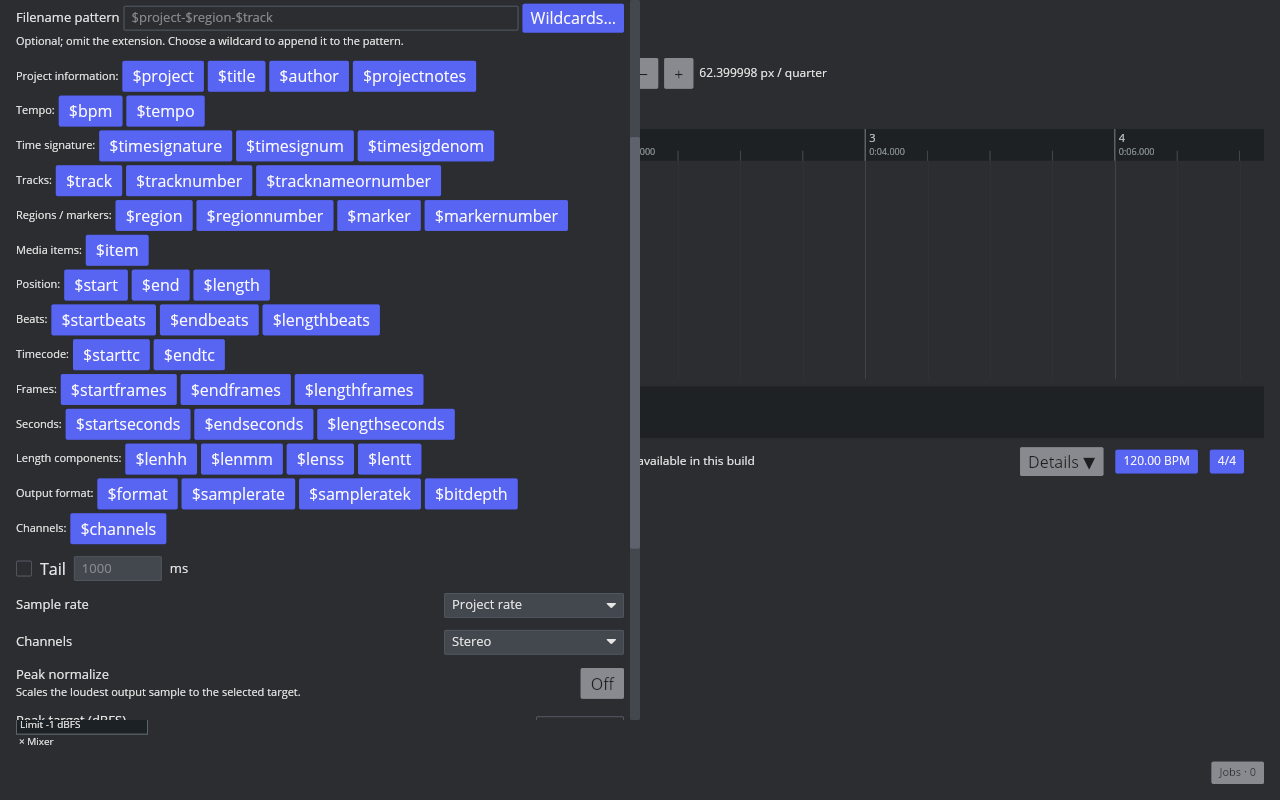
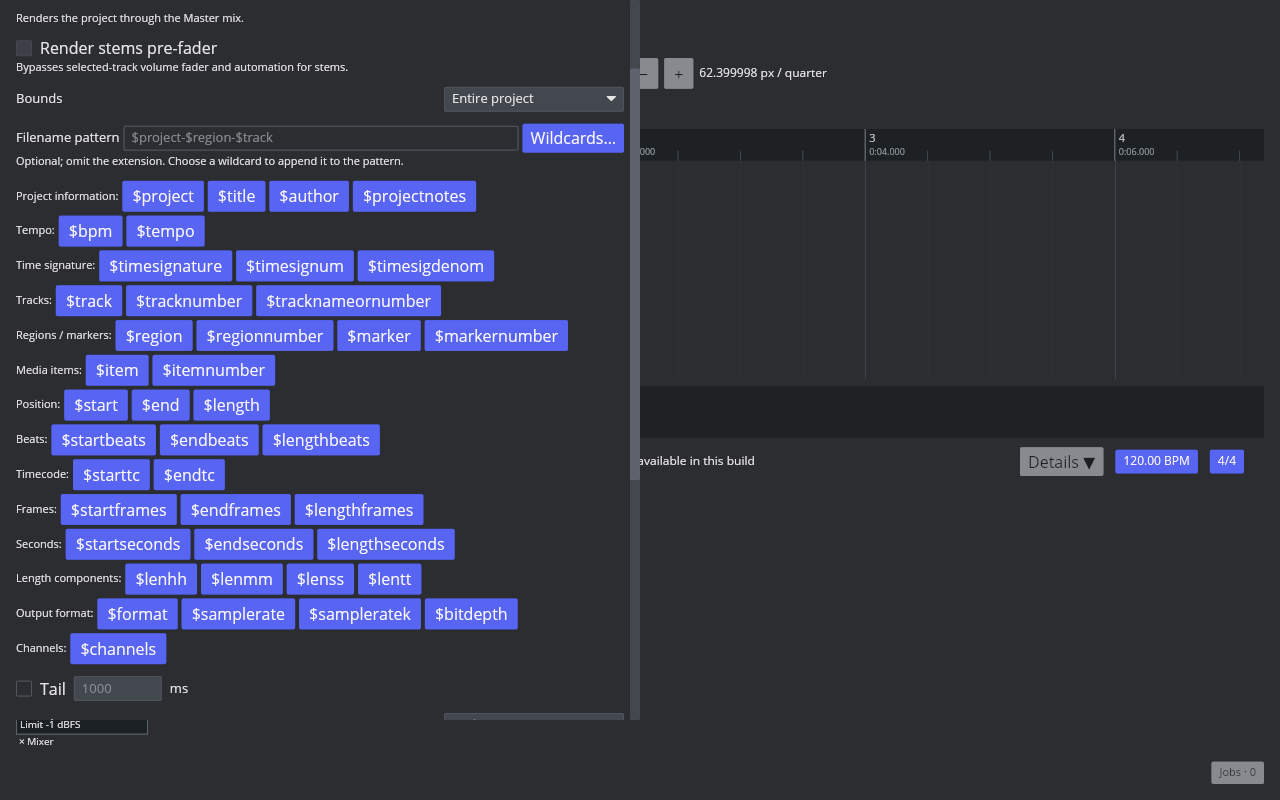
feat(render): add selected item number wildcard

Changed region(s): [[0.0, 0.0, 0.5, 0.9062], [0.4062, 0.0, 0.5, 0.0625], [0.4688, 0.5938, 0.5, 0.6875]]

diff --git a/crates/aaadaw/src/app/audio_export.rs b/crates/aaadaw/src/app/audio_export.rs
@@ -59,6 +59,7 @@ pub(crate) enum RenderFilenameWildcard {
     TrackNumber,
     TrackNameOrNumber,
     Item,
+    ItemNumber,
     Start,
     End,
     Length,
@@ -86,7 +87,7 @@ pub(crate) enum RenderFilenameWildcard {
 }
 
 impl RenderFilenameWildcard {
-    pub(crate) const ALL: [Self; 40] = [
+    pub(crate) const ALL: [Self; 41] = [
         Self::Project,
         Self::Title,
         Self::Author,
@@ -104,6 +105,7 @@ impl RenderFilenameWildcard {
         Self::Marker,
         Self::MarkerNumber,
         Self::Item,
+        Self::ItemNumber,
         Self::Start,
         Self::End,
         Self::Length,
@@ -147,6 +149,7 @@ impl RenderFilenameWildcard {
             Self::TrackNumber => "$tracknumber",
             Self::TrackNameOrNumber => "$tracknameornumber",
             Self::Item => "$item",
+            Self::ItemNumber => "$itemnumber",
             Self::Start => "$start",
             Self::End => "$end",
             Self::Length => "$length",
@@ -1074,15 +1077,19 @@ fn expand_render_filename_pattern(
                 String::new()
             }
         });
-    let item_name = match settings.source {
+    let item_index = match settings.source {
         aaadaw_app::ProjectWavRenderSource::SelectedAudioItem(item_id) => project
             .audio_items()
             .iter()
-            .position(|item| item.id() == item_id)
-            .map(|index| format!("item_{:02}", index + 1))
-            .unwrap_or_default(),
-        _ => String::new(),
+            .position(|item| item.id() == item_id),
+        _ => None,
     };
+    let item_name = item_index
+        .map(|index| format!("item_{:02}", index + 1))
+        .unwrap_or_default();
+    let item_number_text = item_index
+        .map(|index| format!("{:02}", index + 1))
+        .unwrap_or_default();
     let region = project.regions().iter().find(|region| {
         project.sample_at_tick(region.start_ticks()).ok() == Some(settings.start_sample)
             && project.sample_at_tick(region.end_ticks()).ok() == Some(settings.end_sample)
@@ -1239,6 +1246,7 @@ fn expand_render_filename_pattern(
             "marker" => result.push_str(marker.map_or("", |(_, marker)| marker.name())),
             "markernumber" => result.push_str(&marker_number_text),
             "item" => result.push_str(&item_name),
+            "itemnumber" => result.push_str(&item_number_text),
             "bpm" => result.push_str(&bpm_text),
             _ => {
                 result.push('$');
@@ -2984,6 +2992,7 @@ mod tests {
                 "$marker",
                 "$markernumber",
                 "$item",
+                "$itemnumber",
                 "$start",
                 "$end",
                 "$length",
@@ -3175,6 +3184,50 @@ mod tests {
             output[0].1,
             Path::new("/renders/Drums Kit_DRUMS KIT_drums kit_DrumsKit_Drums_Kit_Drums.wav")
         );
+    }
+
+    #[test]
+    fn render_filename_item_number_matches_the_selected_items_project_order() {
+        let mut project = Project::default();
+        project
+            .apply(DawAction::CreateTrack {
+                index: 0,
+                name: "Item number fixture".to_owned(),
+            })
+            .expect("item number fixture track should be created");
+        let track_id = project.tracks()[0].id();
+        for start_sample in [0, 48_000, 96_000] {
+            project
+                .apply(DawAction::InsertAudioItem {
+                    track_id,
+                    media_ref: "fixture.wav".to_owned(),
+                    start_sample,
+                    source_offset_samples: 0,
+                    length_samples: 48_000,
+                })
+                .expect("item number fixture should be inserted");
+        }
+        let item_id = project.audio_items()[1].id();
+        let settings = aaadaw_app::ProjectWavRenderSettings {
+            master_ceiling: aaadaw_engine::MasterOutputCeiling::default(),
+            export_options: aaadaw_app::WavExportOptions::default(),
+            output_sample_rate: 48_000,
+            output_channels: WavChannelCount::Stereo,
+            source: aaadaw_app::ProjectWavRenderSource::SelectedAudioItem(item_id),
+            start_sample: 48_000,
+            end_sample: 96_000,
+            tail_milliseconds: 0,
+            normalize_peak: false,
+            normalize_peak_target_centi_dbfs: 0,
+        };
+        let output = apply_render_filename_pattern(
+            vec![(settings, Path::new("/renders/base.wav").to_owned())],
+            "$item-$itemnumber",
+            &project,
+            Path::new("/projects/item-number.aaadaw"),
+        )
+        .expect("the selected item's identity and number should expand");
+        assert_eq!(output[0].1, Path::new("/renders/item_02-02.wav"));
     }
 
     #[test]

diff --git a/crates/aaadaw/src/app/view/render.rs b/crates/aaadaw/src/app/view/render.rs
@@ -225,39 +225,39 @@ pub(super) fn view(app: &App) -> Element<'_, Message> {
                 ),
                 wildcard_group_row(
                     "Media items:",
-                    RenderFilenameWildcard::ALL.into_iter().skip(16).take(1),
+                    RenderFilenameWildcard::ALL.into_iter().skip(16).take(2),
                 ),
                 wildcard_group_row(
                     "Position:",
-                    RenderFilenameWildcard::ALL.into_iter().skip(17).take(3),
+                    RenderFilenameWildcard::ALL.into_iter().skip(18).take(3),
                 ),
                 wildcard_group_row(
                     "Beats:",
-                    RenderFilenameWildcard::ALL.into_iter().skip(20).take(3),
+                    RenderFilenameWildcard::ALL.into_iter().skip(21).take(3),
                 ),
                 wildcard_group_row(
                     "Timecode:",
-                    RenderFilenameWildcard::ALL.into_iter().skip(23).take(2),
+                    RenderFilenameWildcard::ALL.into_iter().skip(24).take(2),
                 ),
                 wildcard_group_row(
                     "Frames:",
-                    RenderFilenameWildcard::ALL.into_iter().skip(25).take(3),
+                    RenderFilenameWildcard::ALL.into_iter().skip(26).take(3),
                 ),
                 wildcard_group_row(
                     "Seconds:",
-                    RenderFilenameWildcard::ALL.into_iter().skip(28).take(3),
+                    RenderFilenameWildcard::ALL.into_iter().skip(29).take(3),
                 ),
                 wildcard_group_row(
                     "Length components:",
-                    RenderFilenameWildcard::ALL.into_iter().skip(31).take(4),
+                    RenderFilenameWildcard::ALL.into_iter().skip(32).take(4),
                 ),
                 wildcard_group_row(
                     "Output format:",
-                    RenderFilenameWildcard::ALL.into_iter().skip(35).take(4),
+                    RenderFilenameWildcard::ALL.into_iter().skip(36).take(4),
                 ),
                 wildcard_group_row(
                     "Channels:",
-                    RenderFilenameWildcard::ALL.into_iter().skip(39).take(1),
+                    RenderFilenameWildcard::ALL.into_iter().skip(40).take(1),
                 ),
             ]
             .spacing(tokens::SPACING_XS)

diff --git a/docs/verification/reaper-parity/render-filename-patterns.md b/docs/verification/reaper-parity/render-filename-patterns.md
@@ -2,12 +2,12 @@
 
 Linux REAPER 7.82 / Default 7 places a `File name` pattern field and `Wildcards` button in the Render window. The captured selected-item case uses `$region-$item` and resolves to `bounds-ui-Region 2-item_02.wav`; the reference dialog and measured output are archived in [the native screenshot](images/render-selected-items-native.png) and [the output record](render-selected-items-native.tsv). The native Region Render Matrix fixture uses `$region-$track` and emits `Intro-Master.wav`, `Intro-Drums.wav`, `Intro-Guitar.wav`, and `Verse-Bass.wav`.
 
-AAADAW now provides an optional filename-pattern field in its Render window and a grouped `Wildcards…` picker immediately below it. Its 40 implemented tokens cover `$project`, `$title`, `$author`, `$projectnotes`, `$bpm`, `$tempo`, `$timesignature`, `$timesignum`, `$timesigdenom`, `$track`, `$tracknumber`, `$tracknameornumber`, `$region`, `$regionnumber`, `$marker`, `$markernumber`, `$item`, the 18 Position/Length tokens `$start`, `$end`, `$length`, `$startbeats`, `$endbeats`, `$lengthbeats`, `$starttc`, `$endtc`, `$startframes`, `$endframes`, `$lengthframes`, `$startseconds`, `$endseconds`, `$lengthseconds`, `$lenhh`, `$lenmm`, `$lenss`, and `$lentt`, plus `$format`, `$samplerate`, `$sampleratek`, `$bitdepth`, and `$channels`. Project metadata values come from the existing Project Notes model. Selecting a token appends it to the end of the pattern and closes the picker. A chosen output path supplies the directory and extension; a blank pattern retains the existing generated names. The resolver sanitizes characters unsafe in file names and rejects patterns that resolve multiple jobs to the same name before queueing. The Render job still publishes through the existing atomic batch writer.
+AAADAW now provides an optional filename-pattern field in its Render window and a grouped `Wildcards…` picker immediately below it. Its 41 implemented tokens cover `$project`, `$title`, `$author`, `$projectnotes`, `$bpm`, `$tempo`, `$timesignature`, `$timesignum`, `$timesigdenom`, `$track`, `$tracknumber`, `$tracknameornumber`, `$region`, `$regionnumber`, `$marker`, `$markernumber`, `$item`, `$itemnumber`, the 18 Position/Length tokens `$start`, `$end`, `$length`, `$startbeats`, `$endbeats`, `$lengthbeats`, `$starttc`, `$endtc`, `$startframes`, `$endframes`, `$lengthframes`, `$startseconds`, `$endseconds`, `$lengthseconds`, `$lenhh`, `$lenmm`, `$lenss`, and `$lentt`, plus `$format`, `$samplerate`, `$sampleratek`, `$bitdepth`, and `$channels`. Project metadata values come from the existing Project Notes model. Selecting a token appends it to the end of the pattern and closes the picker. A chosen output path supplies the directory and extension; a blank pattern retains the existing generated names. The resolver sanitizes characters unsafe in file names and rejects patterns that resolve multiple jobs to the same name before queueing. The Render job still publishes through the existing atomic batch writer.
 
 The [AAADAW filename-field capture](fixtures/render-filename-pattern-aaadaw.png), [expanded picker capture](fixtures/render-filename-pattern-wildcards-aaadaw.png), [scrolled picker capture](fixtures/render-filename-pattern-wildcards-scrolled-aaadaw.png), and [wildcard insertion capture](fixtures/render-filename-pattern-wildcard-insert-aaadaw.png) were taken from the rebuilt desktop binary. The reproducible [capture script](../../../scripts/reaper_parity/capture-render-filename-pattern-aaadaw.sh) drives the visible Render command with Ctrl+Alt+R; set `AAADAW_OPEN_WILDCARDS=1` to capture the expanded picker, or `AAADAW_INSERT_WILDCARD=sampleratek` to scroll to the lower groups, click the token, and capture the resulting field. The current desktop capture confirms that `$sampleratek` inserts and closes the picker. Native UI probes accept `AAADAW_REAPER_WILDCARD_PATTERN` to replace their default pattern. The selected-item probe also accepts project title, author, notes, track name, item start, and item length overrides. Native captures verify `$tracknumber-$tracknameornumber-$regionnumber-$tempo-$timesignature-$timesignum-$timesigdenom` as `01-Render fixture-02-120-4-4-4-4.wav`, `$markernumber` as `01.wav`, `$title-$author-$projectnotes` as `Wildcard Session-Render Author-Mix notes.wav`, and an empty track name with `$tracknameornumber` as `Track 01.wav`. At 30 fps and 4/4, a selected item from 2.125 to 3.359 seconds resolves `$start-$end-$length` to `0-02.125-0-03.359-0-01.234`, `$startbeats-$endbeats-$lengthbeats` to `2.1.25-2.3.72-0.2.47`, `$starttc-$endtc` to `00.00.02.03-00.00.03.10`, `$startseconds-$endseconds-$lengthseconds-$startframes-$endframes-$lengthframes` to `2.125-3.359-1.234-63-100-37`, and the length components to `0-0-1-234`. The [native context capture](fixtures/render-wildcards-context-native.png), [marker capture](fixtures/render-wildcards-marker-native.png), [metadata capture](fixtures/render-wildcards-metadata-native.png), [unnamed-track capture](fixtures/render-wildcards-unnamed-track-native.png), and the [clock](fixtures/render-wildcards-clock-native.png), [beats](fixtures/render-wildcards-beats-native.png), [timecode](fixtures/render-wildcards-timecode-native.png), [frames](fixtures/render-wildcards-frames-native.png), and [length components](fixtures/render-wildcards-length-native.png) captures preserve those cases. Screenshot hashes, native inputs, implementation tokens, and regression results are in the [fixture manifest](fixtures/render-filename-pattern-aaadaw.tsv).
 
 Wildcard text expansion now follows the native help for capitalization (`$Track`, `$TRACK`, `$tRACK`), `<X>` removal, `<abcdeX>` replacement, and `[<N]` prefix truncation. When a known wildcard expands to an empty string, one adjacent space, hyphen, underscore, or dot is omitted, following the native help rule. Unit regressions cover those transformations; native help captures are linked in the [catalog](render-wildcard-catalog.md).
 
-The regression resolves the native `$region-$track` matrix pattern to the same four native target names, renders those jobs through AAADAW's offline audio renderer, and compares every PCM24 sample to the matching REAPER output. A second test resolves `$region-$item` to the observed `Intro-item_01.wav` form. The context-expansion regression checks Project Notes title/author/text, all Position/Length values, and track, region, tempo, and time-signature values; an unnamed track resolves `$tracknameornumber` to the native `Track 02` form. The native unnamed-track render preview shows `Track 01.wav`. Separate cases cover safe-name conversion, blank-pattern fallback, unknown literal tokens, and duplicate-name rejection. The queue test sets `$project-$track` through the Render message and checks that queued stem paths use the expanded project and track names; it also verifies duplicate names leave the queue unchanged. The picker regression covers all 40 visible tokens, appending the selected token, and closing the menu. The output-context regression checks native values for WAV format, 44.1/22.05 kHz formatting, 16/24/32/64-bit PCM/float and 4/2-bit compressed WAV values, and Mono/Stereo channel counts. See the manifest for current build, screenshot hashes, and validation counts.
+The regression resolves the native `$region-$track` matrix pattern to the same four native target names, renders those jobs through AAADAW's offline audio renderer, and compares every PCM24 sample to the matching REAPER output. A second test resolves `$region-$item` to the observed `Intro-item_01.wav` form. The context-expansion regression checks Project Notes title/author/text, all Position/Length values, and track, region, tempo, and time-signature values; `$itemnumber` follows the selected item’s project order and is regression-tested with the captured `$item` `item_02` identity; an unnamed track resolves `$tracknameornumber` to the native `Track 02` form. The native unnamed-track render preview shows `Track 01.wav`. Separate cases cover safe-name conversion, blank-pattern fallback, unknown literal tokens, and duplicate-name rejection. The queue test sets `$project-$track` through the Render message and checks that queued stem paths use the expanded project and track names; it also verifies duplicate names leave the queue unchanged. The picker regression covers all 41 visible tokens, appending the selected token, and closing the menu. The output-context regression checks native values for WAV format, 44.1/22.05 kHz formatting, 16/24/32/64-bit PCM/float and 4/2-bit compressed WAV values, and Mono/Stereo channel counts. See the manifest for current build, screenshot hashes, and validation counts.
 
 The [native wildcard catalog](render-wildcard-catalog.md) records the 97 entries visible in REAPER 7.82 menus and the native Wildcard help rules. This does not complete REAPER Wildcards parity: AAADAW exposes 40 tokens in a flat scrollable grouped picker and appends at the pattern end; insertion at the caret or over a selection, `$projectnotes(name)` and named-note parsing, project directory variants, region/marker/item note and name expressions, folders/parent/FX, recording names, date/time/unique IDs, computer/user values, REAPER's full ordering and escaping rules, pattern presets and cross-launch persistence, native collision prompts, non-WAV formats, per-channel `$chid`, and remaining source/range combinations are open. Position/Length formatting is verified with the default 4/4 meter and 30 fps, while project time offset, meter changes across the render range, other frame rates, drop-frame modes, and Tail interactions still need native comparisons. The native context captures verify track number/name, region number, tempo, time signature components, marker number, project title/author/notes, and the sampled time/beat/frame output forms. `$marker` text/name expansion and many source-dependent values still need native comparisons. `RENDER-WILDCARDS-001`, `RENDER-SOURCE-001`, and `UI-028` remain `in_progress`.

diff --git a/docs/verification/reaper-parity/render-source.md b/docs/verification/reaper-parity/render-source.md
@@ -20,7 +20,7 @@ AAADAW stores a Master-mix boolean and ordered TrackId list per project region i
 
 The Render Source menu now offers `Region Render Matrix` with All/Selected Project Regions bounds. The existing atomic batch-render queue builds one output for each assigned Master row and one for each assigned track row, and stores per-region ranges in each job. The native Linux REAPER 7.82 render action produced four outputs for this fixture: `Intro-Master.wav`, `Intro-Drums.wav`, `Intro-Guitar.wav`, and `Verse-Bass.wav`; unassigned target/region pairs produced no files. All four files were 48 kHz stereo PCM24 with 96,000 frames. The [source generator](../../../scripts/reaper_parity/generate-region-render-matrix-sources.py), [ReaScript render probe](../../../scripts/reaper_parity/probe-region-render-matrix-render.lua), [native output table](fixtures/region-render-matrix-render-native.tsv), and [PCM fixtures](fixtures/region-render-matrix-render/) preserve the setup, metadata, hashes, and payloads. An AAADAW regression renders the same four target jobs and compares every PCM payload byte-for-byte with the corresponding native fixture; output format, frame count, and sample values also match exactly.
 
-The Render window now has an optional filename-pattern field and a grouped `Wildcards…` picker for 40 implemented tokens: `$project`, `$title`, `$author`, `$projectnotes`, `$bpm`, `$tempo`, `$timesignature`, `$timesignum`, `$timesigdenom`, `$track`, `$tracknumber`, `$tracknameornumber`, `$region`, `$regionnumber`, `$marker`, `$markernumber`, `$item`, the 18 Position/Length tokens, and `$format`, `$samplerate`, `$sampleratek`, `$bitdepth`, and `$channels`. The existing Project Notes title, author, and text fields drive the three new metadata variables. A native selected-item Render probe confirms `$title-$author-$projectnotes` resolves to `Wildcard Session-Render Author-Mix notes.wav`; `$tracknumber-$tracknameornumber-$regionnumber-$tempo-$timesignature-$timesignum-$timesigdenom` resolves to `01-Render fixture-02-120-4-4-4-4.wav`, and the marker probe confirms `$markernumber` resolves to `01.wav`. REAPER's changelog specifies that an unnamed track resolves `$tracknameornumber` to `Track NN`; a fresh native dialog shows an empty track name resolving to `Track 01.wav`, which AAADAW now matches. For a selected item from 2.125 to 3.359 seconds, native Render previews verify clock values `0-02.125`, beat values `2.1.25-2.3.72-0.2.47`, timecode `00.00.02.03-00.00.03.10`, seconds and 30 fps counts `2.125-3.359-1.234-63-100-37`, and length components `0-0-1-234`. The native context, metadata, marker, unnamed-track, Position/Length, Output Format, and Channels screenshots are in the filename wildcard fixture set. The native wildcard menu and help catalog is recorded in [the catalog verification](render-wildcard-catalog.md). For the tested `$region-$track` pattern, AAADAW emits the native names `Intro-Master.wav`, `Intro-Drums.wav`, `Intro-Guitar.wav`, and `Verse-Bass.wav`; its offline renderer still matches all four native PCM payloads byte-for-byte. The native `$region-$item` case resolves to `bounds-ui-Region 2-item_02.wav`, and AAADAW resolves the same token pair to the observed item-name form. Blank patterns keep the existing generated output names. Wildcard capitalization, character replacement/removal, prefix truncation, and empty-value separator removal follow the native help and have regression coverage; caret/selection insertion, `[N]` render-order counters, directory creation, lane filters, named project-note parsing, remaining tokens, preset persistence, and more source/range combinations remain open; see [filename wildcard verification](render-filename-patterns.md). The simple fixture confirms the tested track signal and Master sum, but not pre/post-fader settings, automation, folders/sends, or FX routing. Those gaps keep `RENDER-SOURCE-001` and `PROJECT-REGIONS-001` `in_progress`.
+The Render window now has an optional filename-pattern field and a grouped `Wildcards…` picker for 41 implemented tokens: `$project`, `$title`, `$author`, `$projectnotes`, `$bpm`, `$tempo`, `$timesignature`, `$timesignum`, `$timesigdenom`, `$track`, `$tracknumber`, `$tracknameornumber`, `$region`, `$regionnumber`, `$marker`, `$markernumber`, `$item`, `$itemnumber`, the 18 Position/Length tokens, and `$format`, `$samplerate`, `$sampleratek`, `$bitdepth`, and `$channels`. The existing Project Notes title, author, and text fields drive the three new metadata variables. A native selected-item Render probe confirms `$title-$author-$projectnotes` resolves to `Wildcard Session-Render Author-Mix notes.wav`; `$tracknumber-$tracknameornumber-$regionnumber-$tempo-$timesignature-$timesignum-$timesigdenom` resolves to `01-Render fixture-02-120-4-4-4-4.wav`, and the marker probe confirms `$markernumber` resolves to `01.wav`. REAPER's changelog specifies that an unnamed track resolves `$tracknameornumber` to `Track NN`; a fresh native dialog shows an empty track name resolving to `Track 01.wav`, which AAADAW now matches. For a selected item from 2.125 to 3.359 seconds, native Render previews verify clock values `0-02.125`, beat values `2.1.25-2.3.72-0.2.47`, timecode `00.00.02.03-00.00.03.10`, seconds and 30 fps counts `2.125-3.359-1.234-63-100-37`, and length components `0-0-1-234`. The native context, metadata, marker, unnamed-track, Position/Length, Output Format, and Channels screenshots are in the filename wildcard fixture set. The native wildcard menu and help catalog is recorded in [the catalog verification](render-wildcard-catalog.md). For the tested `$region-$track` pattern, AAADAW emits the native names `Intro-Master.wav`, `Intro-Drums.wav`, `Intro-Guitar.wav`, and `Verse-Bass.wav`; its offline renderer still matches all four native PCM payloads byte-for-byte. The native `$region-$item` case resolves to `bounds-ui-Region 2-item_02.wav`; AAADAW resolves `$item` as `item_02` for the second project item and exposes the matching `$itemnumber` value `02`. Blank patterns keep the existing generated output names. Wildcard capitalization, character replacement/removal, prefix truncation, and empty-value separator removal follow the native help and have regression coverage; caret/selection insertion, `[N]` render-order counters, directory creation, lane filters, named project-note parsing, remaining tokens, preset persistence, and more source/range combinations remain open; see [filename wildcard verification](render-filename-patterns.md). The simple fixture confirms the tested track signal and Master sum, but not pre/post-fader settings, automation, folders/sends, or FX routing. Those gaps keep `RENDER-SOURCE-001` and `PROJECT-REGIONS-001` `in_progress`.
 
 ### Selected media items
 

diff --git a/docs/reaper-parity/progress.md b/docs/reaper-parity/progress.md
@@ -26,7 +26,7 @@
 | P7 | 未开始 | MIDI |
 | P8 | 未开始 | 自动化 |
 | P9 | 未开始 | 插件 |
-| P10 | 进行中 | 工程帧率/时间码、Notes 与 General 起始速度/拍号/采样率/有符号 Start measure/BPM basis/标尺间隔锚点/Project start time 显示偏移/已实现字段的默认工程设置保存；媒体默认已有 64pt playback/192pt render sinc，Render 支持 Entire project/Time selection/Custom time range/All project regions/All project markers、默认关闭且整数毫秒输入的 Tail、Project/常用预设输出采样率转换、Mono/Stereo WAV、PCM8/16/24/32、Float32/64、4-bit IMA ADPCM、2-bit cADPCM 与 8-bit u-Law、可调 sample-peak、Selected tracks (stems)/pre-fader/via master、Master mix and stems，以及 Region Render Matrix 的 All/Selected Regions 批量任务构造、一组 4 文件原厂 PCM24 对照和 40 个常用 Wildcard token（其中 18 个 Position/Length 项及 5 个输出格式/通道值与 REAPER 7.82 实窗输出比对；原厂大小写、字符替换/删除、[<N] 截取和空值分隔符规则已接入）；$region-$track 原厂文件名与完整 PCM 已一致，完整 Wildcards chooser/规则/跨启动保存及其他路由行为仍待验收；cADPCM 编码尚未逐字节一致、Selected regions/markers、其他 Bounds、多声道、其他归一化/限制后处理和完整原厂对照仍缺 |
+| P10 | 进行中 | 工程帧率/时间码、Notes 与 General 起始速度/拍号/采样率/有符号 Start measure/BPM basis/标尺间隔锚点/Project start time 显示偏移/已实现字段的默认工程设置保存；媒体默认已有 64pt playback/192pt render sinc，Render 支持 Entire project/Time selection/Custom time range/All project regions/All project markers、默认关闭且整数毫秒输入的 Tail、Project/常用预设输出采样率转换、Mono/Stereo WAV、PCM8/16/24/32、Float32/64、4-bit IMA ADPCM、2-bit cADPCM 与 8-bit u-Law、可调 sample-peak、Selected tracks (stems)/pre-fader/via master、Master mix and stems，以及 Region Render Matrix 的 All/Selected Regions 批量任务构造、一组 4 文件原厂 PCM24 对照和 41 个常用 Wildcard token（其中 18 个 Position/Length 项及 5 个输出格式/通道值与 REAPER 7.82 实窗输出比对；原厂大小写、字符替换/删除、[<N] 截取和空值分隔符规则已接入）；$region-$track 原厂文件名与完整 PCM 已一致，完整 Wildcards chooser/规则/跨启动保存及其他路由行为仍待验收；cADPCM 编码尚未逐字节一致、Selected regions/markers、其他 Bounds、多声道、其他归一化/限制后处理和完整原厂对照仍缺 |
 | P11 | 未开始 | 其他原厂界面 |
 | P12 | 未开始 | 全量验收 |
 
@@ -1589,3 +1589,8 @@ App nextest 664/664、strict all-target App Clippy `-D warnings`、stripped-debu
 ## 2026-10-16 Native wildcard text rules
 
 按 REAPER 7.82 Wildcard help 实现大小写模式（首字母大写、整体大写、整体小写）、`<X>` 删除字符、`<abcdeX>` 字符映射替换、`[<N]` 前缀截取，以及空值旁一个空格/连字符/下划线/点号的省略。新增两项 resolver 回归，覆盖这些规则；App nextest 667/667、strict all-target App Clippy `-D warnings` 通过。重建并运行 Build ID `a480f6100388ac6490b4f413814d75229198eb5f` 的桌面二进制，复拍 Render 字段、40 项 picker、滚动 picker 与 `$sampleratek` 实际点击插入界面；帮助页及菜单证据见[原厂 Wildcard catalog](../verification/reaper-parity/render-wildcard-catalog.md)。`[N]` 渲染序号、`/` 目录创建、`{lane}`、命名值表达式与其余原厂 token 仍未实现，`RENDER-WILDCARDS-001` 保持 `in_progress`。
+
+
+## 2026-10-16 Media item number wildcard
+
+补齐原厂 Media Items 菜单中的 `$itemnumber`。其值来自当前选中音频 Item 在工程 Item 序列中的一基序号，并按两位数输出；与已有 `$item` 共享同一身份索引。回归以第二个工程 Item 验证 `$item-$itemnumber` 为 `item_02-02`，与已存档的原厂第二个选中 Item `$item` 预览 `item_02` 一致。Picker 增至 41 项，Media items 组同列显示 `$item` / `$itemnumber`；X11 实点第二个按钮后正确插入 `$itemnumber` 并关闭 picker。App nextest 668/668 与 strict all-target App Clippy `-D warnings` 通过；Build ID `8d0c0fdde9a40e520786848ba56c265ab2d1a705` 的 Render、完整 picker、滚动 picker 和实点插入截图已登记。直接 `$itemnumber` 原厂输出预览及其他原厂 Media Items 项仍开放。

diff --git a/docs/verification/reaper-parity/render-wildcard-catalog.md b/docs/verification/reaper-parity/render-wildcard-catalog.md
@@ -33,6 +33,6 @@ The captured Output Format previews confirm `wav-44100-44.1-24-2` for 44.1 kHz /
 
 ## AAADAW status
 
-AAADAW implements 40 tokens: `$project`, `$title`, `$author`, `$projectnotes`, `$bpm`, `$tempo`, `$timesignature`, `$timesignum`, `$timesigdenom`, `$track`, `$tracknumber`, `$tracknameornumber`, `$region`, `$regionnumber`, `$marker`, `$markernumber`, `$item`, the 18 Position/Length entries above, and `$format`, `$samplerate`, `$sampleratek`, `$bitdepth`, and `$channels`. `$bpm` and `$tracknameornumber` are accepted compatibility forms outside the captured native menu labels. The native menu groups items hierarchically; AAADAW currently presents its flat grouped picker in a scrollable panel. Its lower rows and a real `$sampleratek` insertion are shown in the [scrolled AAADAW picker](fixtures/render-filename-pattern-wildcards-scrolled-aaadaw.png) and [insertion capture](fixtures/render-filename-pattern-wildcard-insert-aaadaw.png).
+AAADAW implements 41 tokens: `$project`, `$title`, `$author`, `$projectnotes`, `$bpm`, `$tempo`, `$timesignature`, `$timesignum`, `$timesigdenom`, `$track`, `$tracknumber`, `$tracknameornumber`, `$region`, `$regionnumber`, `$marker`, `$markernumber`, `$item`, `$itemnumber`, the 18 Position/Length entries above, and `$format`, `$samplerate`, `$sampleratek`, `$bitdepth`, and `$channels`. `$bpm` and `$tracknameornumber` are accepted compatibility forms outside the captured native menu labels. The native menu groups items hierarchically; AAADAW currently presents its flat grouped picker in a scrollable panel. Its lower rows and a real `$sampleratek` insertion are shown in the [scrolled AAADAW picker](fixtures/render-filename-pattern-wildcards-scrolled-aaadaw.png) and [insertion capture](fixtures/render-filename-pattern-wildcard-insert-aaadaw.png).
 
-AAADAW now applies the help-documented capitalization modes, `<X>` character removal, `<abcdeX>` character replacement, `[<N]` prefix truncation, and removal of one adjacent space, hyphen, underscore, or dot when a resolved value is empty. Regression cases cover the help examples. The rest of the native catalog and syntax remain open: named notes and expressions, directory and folder hierarchy, parent and FX names, marker/item identity and ordering, recording counters, date/time and unique IDs, user/computer values, `[N]` render-order counters, `/` directory creation, `{lane}`, presets, `Master $Track` substitution, non-WAV formats, and per-channel `$chid` need implementation or additional source-specific REAPER comparisons. `RENDER-WILDCARDS-001` remains `in_progress`.
+AAADAW now applies the help-documented capitalization modes, `<X>` character removal, `<abcdeX>` character replacement, `[<N]` prefix truncation, and removal of one adjacent space, hyphen, underscore, or dot when a resolved value is empty. Regression cases cover the help examples. The rest of the native catalog and syntax remain open: named notes and expressions, directory and folder hierarchy, parent and FX names, marker identity and ordering, item notes and take markers, recording counters, date/time and unique IDs, user/computer values, `[N]` render-order counters, `/` directory creation, `{lane}`, presets, `Master $Track` substitution, non-WAV formats, and per-channel `$chid` need implementation or additional source-specific REAPER comparisons. `RENDER-WILDCARDS-001` remains `in_progress`.
